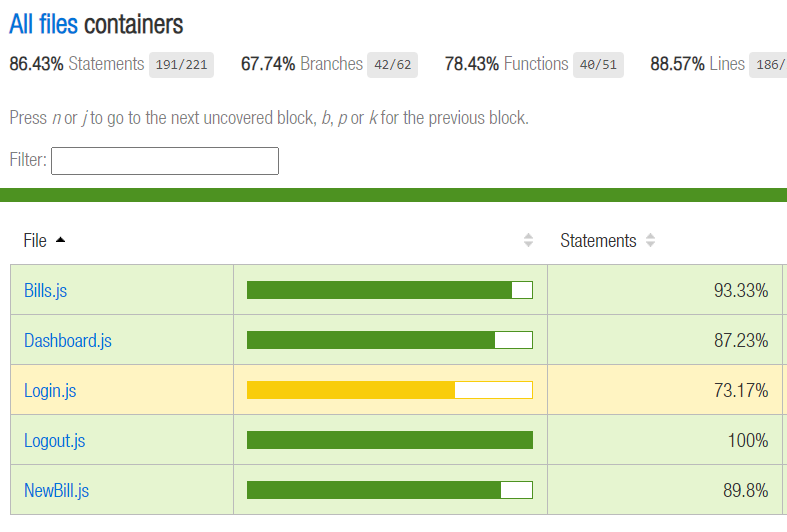
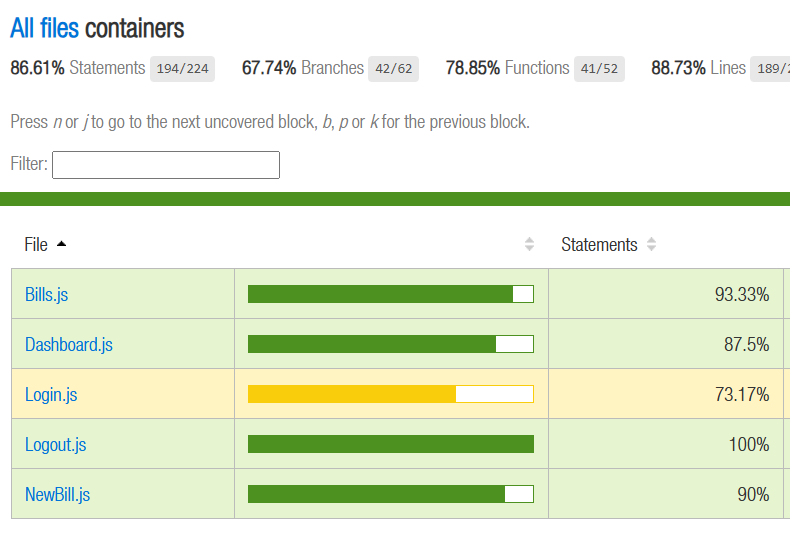
Ajouts et modifs diverses

diff --git a/src/containers/Dashboard.js b/src/containers/Dashboard.js
@@ -8,13 +8,12 @@ import Logout from "./Logout.js"
 // Ce fichier définit une classe JS qui est principalement responsable de la gestion des factures dans le tableau de bord administratif de l'application. Il permet à un administrateur de visualiser, filtrer, éditer et mettre à jour les factures soumises par les employés, et il inclut la gestion des événements liés à l'interface utilisateur pour accomplir ces tâches
 // Outil complet pour un administrateur, lui permettant de gérer les factures soumises par les employés et de prendre des décisions concernant leur validation ou leur rejet
 
-// Fonction qui filtre les factures en fonction de leur statut et exclut celles des utilisateurs de test.
+// Fonction qui filtre les factures en fonction de leur statut 
 export const filteredBills = (data, status) => {
   // Si les données sont définies et que la liste de factures n'est pas vide, filtre les factures.
   return (data && data.length) ?
     data.filter(bill => {
       let selectCondition
-
       // Vérifie si le code s'exécute dans un environnement de test (Jest est une bibliothèque de tests).
       if (typeof jest !== 'undefined') {
         // Si oui, filtre les factures dont le statut correspond au statut demandé.
@@ -32,7 +31,6 @@ export const filteredBills = (data, status) => {
           (bill.status === status) &&
           ![...USERS_TEST, userEmail].includes(bill.email)
       }
-
       // Retourne la condition pour filtrer la facture.
       return selectCondition
     }) : []
@@ -115,11 +113,12 @@ export default class {
 
   // Méthode pour gérer l'édition d'une facture lorsqu'un administrateur clique dessus
   handleEditTicket(e, bill, bills) {
+    e.preventDefault();
+    e.stopPropagation();
     // Si l'objet "counters" n'est pas encore défini, on le crée pour stocker un compteur pour chaque facture.
     if (this.counters === undefined) {
       this.counters = {}; // Crée un objet pour stocker les compteurs spécifiques à chaque facture.
     }
-    
     // Si le compteur pour la facture sélectionnée n'est pas encore initialisé, on le met à 0.
     if (this.counters[bill.id] === undefined) {
       this.counters[bill.id] = 0; // Initialise le compteur spécifique à la facture sélectionnée.
@@ -127,44 +126,36 @@ export default class {
     
     // Si le compteur pour cette facture est un multiple de 2 (premier clic ou après chaque deuxième clic).
     if (this.counters[bill.id] % 2 === 0) {
-        // Pour chaque facture, on remet l'arrière-plan à la couleur bleue pour désélectionner visuellement.
+        // Permet de "désélectionner" visuellement toutes les factures avant de se concentrer sur celle que l'utilisateur souhaite éditer et garantit qu'il n'y a pas de conflit visuel si plusieurs factures ont été sélectionnées précédemment. Le fond bleu indique que ces factures ne sont plus en cours d'édition => réinitialisation globale
         bills.forEach(b => {
             $(`#open-bill${b.id}`).css({ background: '#0D5AE5' });
         });
 
-        // Pour la facture sélectionnée, on change la couleur de fond pour indiquer qu'elle est en cours d'édition.
+        // Mise en évidence de la facture sélectionnée par l'utilisateur: on change la couleur de fond (noir) pour indiquer qu'elle est en cours d'édition. Cela assure que seule la facture sélectionnée est visuellement différenciée des autres
         $(`#open-bill${bill.id}`).css({ background: '#2A2B35' });
-        
         // On affiche le formulaire de détails de la facture dans la partie droite du tableau de bord.
         $('.dashboard-right-container div').html(DashboardFormUI(bill));
-        
         // On ajuste la hauteur de la barre de navigation verticale pour correspondre à l'affichage de la facture.
         $('.vertical-navbar').css({ height: '150vh' });
-        
         // On incrémente le compteur spécifique à cette facture.
         this.counters[bill.id]++;
     } else {
         // Si le compteur n'est pas un multiple de 2 (deuxième clic), on réinitialise l'arrière-plan à la couleur bleue.
         $(`#open-bill${bill.id}`).css({ background: '#0D5AE5' });
-        
         // On affiche une grande icône à la place du formulaire, indiquant qu'aucune facture n'est en cours d'édition.
         $('.dashboard-right-container div').html(`
             <div id="big-billed-icon" data-testid="big-billed-icon"> ${BigBilledIcon} </div>
         `);
-        
         // On ajuste la hauteur de la barre de navigation verticale à 120vh pour correspondre à l'affichage par défaut.
         $('.vertical-navbar').css({ height: '120vh' });
-        
         // On incrémente à nouveau le compteur pour cette facture.
         this.counters[bill.id]++;
     }
 
     // Attache un événement "click" à l'icône pour afficher la facture en grand format (en modal).
     $('#icon-eye-d').click(this.handleClickIconEye);
-    
     // Attache un événement "click" au bouton d'acceptation pour accepter la facture sélectionnée.
     $('#btn-accept-bill').click((e) => this.handleAcceptSubmit(e, bill));
-    
     // Attache un événement "click" au bouton de refus pour refuser la facture sélectionnée.
     $('#btn-refuse-bill').click((e) => this.handleRefuseSubmit(e, bill));
   }
@@ -208,27 +199,28 @@ export default class {
     if (this.counters[index] === undefined) {
       this.counters[index] = 0; // Initialise le compteur de la liste actuelle.
     }
-    // Filtrer les factures par statut avant de les afficher
+    // Filtrer les factures par statut avant de les afficher donc n'affiche que les factures pertinentes pour chaque statut
     const filteredBillsList = filteredBills(bills, getStatus(index));
-    // Si c'est un clic pair, affiche les factures pour le statut spécifié.
+    // Si c'est un clic pair, affiche les factures pour le statut spécifique
     if (this.counters[index] % 2 === 0) {
       $(`#arrow-icon${index}`).css({ transform: 'rotate(0deg)' });
-      $(`#status-bills-container${index}`).html(cards(filteredBillsList)); // Affiche les cartes des factures filtrées.
+      $(`#status-bills-container${index}`).html(cards(filteredBillsList)); // Affiche les cartes des factures filtrées
       this.counters[index]++;
     } else {
-      // Sinon, cache les factures pour ce statut.
+      // Sinon, cache les factures pour ce statut
       $(`#arrow-icon${index}`).css({ transform: 'rotate(90deg)' });
       $(`#status-bills-container${index}`).html("");
       this.counters[index]++;
     }
-    // Pour chaque facture filtrée, on s'assure de nettoyer et de réassigner les événements de clic correctement.
+    // Pour chaque facture filtrée, on s'assure de nettoyer et de réassigner les événements de clic correctement
     filteredBillsList.forEach(bill => {
+      // Réaffecte les événements click uniquement aux factures filtrées. Utilise .off('click') pour s'assurer qu'aucun événement de clic précédemment défini n'interfère, puis ajoute .on('click') pour réassigner correctement l'événement au clic sur une facture spécifique
       $(`#open-bill${bill.id}`).off('click').on('click', (e) => {
-        e.stopPropagation(); // Empêche la propagation de l'événement de clic à d'autres éléments.
-        this.handleEditTicket(e, bill, filteredBillsList); // Passe seulement les factures filtrées ici.
+        e.stopPropagation(); // Empêche la propagation de l'événement de clic à d'autres éléments
+        this.handleEditTicket(e, bill, filteredBillsList); // Passe seulement les factures filtrées ici
       });
     });
-    return filteredBillsList; // Retourne la liste des factures filtrées, utile pour les tests.
+    return filteredBillsList; // Retourne la liste filtrée des factures qui correspond au statut actuel
 }
 
   // Méthode pour récupérer toutes les factures de tous les utilisateurs depuis le store.

diff --git a/src/containers/NewBill.js b/src/containers/NewBill.js
@@ -1,6 +1,12 @@
 import { ROUTES_PATH } from '../constants/routes.js'; // Import des chemins de navigation (par exemple pour rediriger l'utilisateur après soumission)
 import Logout from "./Logout.js"; // Import de la classe Logout pour gérer la déconnexion utilisateur
 
+// Export de validateFileExtension pour permettre son utilisation dans les tests unitaires - Elle valide les extensions de fichiers en vérifiant si elles correspondent aux extensions autorisées (.jpg, .jpeg, .png)
+export function validateFileExtension(fileName) {
+  const allowedExtensions = /(\.jpg|\.jpeg|\.png)$/i;
+  return allowedExtensions.test(fileName);
+}
+
 export default class NewBill { // Définition de la classe NewBill qui gère la création d'une nouvelle facture
   constructor({ document, onNavigate, store, localStorage }) { // Constructeur de la classe, initialisant les paramètres nécessaires
     this.document = document; // Référence à l'objet document pour manipuler le DOM
@@ -17,44 +23,47 @@ export default class NewBill { // Définition de la classe NewBill qui gère la 
     new Logout({ document, localStorage, onNavigate }); // Instanciation de la classe Logout pour gérer la déconnexion
   }
 
-  handleChangeFile = async (e) => { // Méthode asynchrone pour gérer le changement de fichier
-    e.preventDefault(); // Empêche le comportement par défaut du navigateur lors du changement de fichier
-    const file = this.document.querySelector(`input[data-testid="file"]`).files[0]; // Récupération du premier fichier sélectionné dans l'input
-    const fileName = file.name; // Récupération du nom du fichier
-    const formData = new FormData(); // Création d'un objet FormData pour envoyer le fichier avec d'autres données
-    const email = JSON.parse(localStorage.getItem("user")).email; // Récupération de l'email de l'utilisateur à partir du localStorage
-    const allowedExtensions = /(\.jpg|\.jpeg|\.png)$/i; // Définition des extensions de fichiers autorisées (images)
-    // /.../ entourent l'expression régulière ; Le backslash \. pour signifier "un point littéral"; jpg|jpeg|png pour les extensions autorisées avec  l'opérateur "OU" => | ; $ signifie "fin de la chaîne" ; i pour signifier que la recherche est insensible à la casse Maj ou min
-    if (!allowedExtensions.test(fileName)) { // Vérification que l'extension du fichier est valide
-      alert('Les fichiers .jpg, .jpeg et .png sont les seuls autorisés'); // Affichage d'une alerte si le fichier a une extension non autorisée
-      e.target.value = ''; // Réinitialisation de l'input fichier
-      return; // Sortie de la fonction si l'extension n'est pas valide
-    }
-    formData.append('file', file); // Ajout du fichier à l'objet FormData
-    formData.append('email', email); // Ajout de l'email de l'utilisateur à l'objet FormData
 
-    try {
-      const response = await this.store.bills().create({ // Envoi du fichier au backend via la méthode create du store
-        data: formData, // Envoi de formData contenant le fichier et l'email
-        headers: {
-          noContentType: true // Spécifie de ne pas ajouter de type de contenu, FormData le gère automatiquement
-        }
+// Méthode asynchrone pour gérer le changement de fichier
+handleChangeFile = async (e) => { 
+  e.preventDefault(); // Empêche le comportement par défaut lors de la sélection d'un fichier
+  const file = this.document.querySelector(`input[data-testid="file"]`).files[0]; // Récupère le premier fichier sélectionné
+  const fileName = file.name; // Récupère le nom du fichier sélectionné
+
+  // Vérifie si l'extension du fichier est valide en appelant la fonction validateFileExtension
+  if (!validateFileExtension(fileName)) { 
+      alert('Les fichiers .jpg, .jpeg et .png sont les seuls autorisés'); // Alerte si l'extension est non valide
+      e.target.value = ''; // Réinitialise l'input pour forcer la sélection d'un fichier valide
+      return; // Stoppe l'exécution si l'extension est invalide
+  }
+
+  const formData = new FormData(); // Crée un objet FormData pour envoyer le fichier et les données
+  const email = JSON.parse(localStorage.getItem("user")).email; // Récupère l'email de l'utilisateur depuis localStorage
+  formData.append('file', file); // Ajoute le fichier à formData
+  formData.append('email', email); // Ajoute l'email de l'utilisateur à formData
+
+  try {
+      // Envoie le fichier et les données via une requête API asynchrone
+      const response = await this.store.bills().create({ 
+          data: formData, // Envoie le FormData qui contient le fichier et l'email
+          headers: {
+              noContentType: true // Indique que FormData gère le Content-Type automatiquement
+          }
       });
 
-      this.billId = response.key; // Récupération de l'ID de la facture à partir de la réponse de l'API
-      this.fileName = response.fileName; // Récupération du nom du fichier à partir de la réponse
-      const cleanedFilePath = response.filePath ? response.filePath.replace(/\\/g, '/') : ''; // Nettoyage du chemin de fichier (remplacement des backslashes par des slashes)
-      // /\\/g = 1er arg => \\ échappement du backslash ; g signifie "global", ce qui indique que nous voulons remplacer tous les backslashes dans la chaîne, pas seulement le premier trouvé
-      // '/' (le second argument de replace) => C'est la chaîne (slash) par laquelle nous voulons remplacer les backslashes
+      this.billId = response.key; // Stocke l'ID de la facture renvoyé par le backend
+      this.fileName = response.fileName; // Stocke le nom du fichier renvoyé par le backend
+      const cleanedFilePath = response.filePath ? response.filePath.replace(/\\/g, '/') : ''; // Remplace les backslashes par des slashes et Nettoyage : /\\/g remplace tous les backslashes \\ par des slashes / dans le chemin de fichier
 
-      // Si le serveur renvoie une URL complète du fichier dans response.fileUrl, elle est utilisée telle quelle..
-      this.fileUrl = response.fileUrl || `http://yourserver.com/${cleanedFilePath}/${response.fileName}`; // ..Ou construction de l'URL du fichier
+      // Stocke l'URL du fichier (renvoyée par le serveur ou construite localement)
+      this.fileUrl = response.fileUrl || `http://yourserver.com/${cleanedFilePath}/${response.fileName}`; 
 
-    } catch (error) {
-      console.error('Erreur lors de la création de la facture avec le fichier:', error); // Affichage d'une erreur dans la console en cas d'échec
-      alert('Une erreur est survenue lors de l\'envoi du fichier. Veuillez réessayer.'); // Affichage d'une alerte si l'upload échoue
-    }
-  };
+  } catch (error) {
+      console.error('Erreur lors de la création de la facture avec le fichier:', error); // Affiche une erreur en cas d'échec
+      alert('Une erreur est survenue lors de l\'envoi du fichier. Veuillez réessayer.'); // Affiche une alerte si l'upload échoue
+  }
+};
+
 
   handleSubmit = async (e) => { // Méthode asynchrone pour gérer la soumission du formulaire
     e.preventDefault(); // Empêche le comportement par défaut lors de la soumission du formulaire

diff --git a/src/__tests__/NewBill.js b/src/__tests__/NewBill.js
@@ -6,10 +6,41 @@
 import { screen, fireEvent } from "@testing-library/dom"; // Outils pour simuler les interactions DOM
 import NewBillUI from "../views/NewBillUI.js"; // Interface utilisateur de la page NewBill
 import NewBill from "../containers/NewBill.js"; // Logique métier de NewBill
+import { validateFileExtension } from '../containers/NewBill.js'; // Import de validateFileExtension en tant que fonction
 import { ROUTES_PATH } from '../constants/routes.js'; // Import des chemins de navigation
 import mockStore from "../__mocks__/store.js"; // Mock de la gestion du store pour simuler les appels API
 
 jest.mock("../app/store", () => mockStore);  // Moquer le store avec mockStore
+
+// TESTS UNITAIRES
+// Définition du bloc principal de test : contexte dans lequel l'utilisateur télécharge un fichier
+describe("Given the user uploads a file", () => {
+  // Sous-bloc pour tester le cas où le fichier a une extension valide
+  describe("When the file has a valid extension", () => {
+    // Test unitaire vérifiant que la fonction retourne true pour des extensions valides
+    test("Then validateFileExtension should return true", () => { 
+      // Vérifie que validateFileExtension retourne true pour un fichier avec l'extension .jpg
+      expect(validateFileExtension("photo.jpg")).toBe(true);
+      // Vérifie que validateFileExtension retourne true pour un fichier avec l'extension .jpeg
+      expect(validateFileExtension("photo.jpeg")).toBe(true);
+      // Vérifie que validateFileExtension retourne true pour un fichier avec l'extension .png
+      expect(validateFileExtension("photo.png")).toBe(true);
+    });
+  });
+
+  // Sous-bloc pour tester le cas où le fichier a une extension invalide
+  describe("When the file has an invalid extension", () => {
+    // Test unitaire vérifiant que la fonction retourne false pour des extensions non autorisées
+    test("Then validateFileExtension should return false", () => {
+      // Vérifie que validateFileExtension retourne false pour un fichier avec l'extension .pdf
+      expect(validateFileExtension("document.pdf")).toBe(false);
+      // Vérifie que validateFileExtension retourne false pour un fichier avec l'extension .gif
+      expect(validateFileExtension("image.gif")).toBe(false);
+      // Vérifie que validateFileExtension retourne false pour un fichier avec l'extension .txt
+      expect(validateFileExtension("file.txt")).toBe(false);
+    });
+  });
+});
 
 // DÉBUT DU BLOC "DESCRIBE" POUR LA CONNEXION EMPLOYÉ (GIVEN)
 describe("Given I am connected as an employee", () => {
@@ -37,7 +68,7 @@ describe("Given I am connected as an employee", () => {
       const form = screen.getByTestId("form-new-bill"); // Récupère le formulaire via son data-testid
       expect(form).toBeTruthy(); // Vérifie que le formulaire est présent dans le DOM
     });
-    // TEST UNITAIRE : UPLOAD D'UN FICHIER VALIDE
+    // TEST D'INTEGRATION : UPLOAD D'UN FICHIER VALIDE
     describe("When I upload a valid file", () => {
       test("Then it should be processed", async () => {
         // Récupère l'input pour le fichier  
@@ -81,7 +112,7 @@ describe("Given I am connected as an employee", () => {
       });
     });
 
-    // TEST UNITAIRE : SOUMISSION SANS FICHIER
+    // TEST D'INTEGRATION : SOUMISSION SANS FICHIER
     describe("When I submit the form without a file", () => {
       test("Then an alert should be shown", () => {
         const form = screen.getByTestId("form-new-bill"); // Récupère le formulaire
@@ -91,7 +122,7 @@ describe("Given I am connected as an employee", () => {
       });
     });
 
-    // TEST UNITAIRE : UPLOAD D'UN FICHIER NON VALIDE
+    // TEST D'INTEGRATION : UPLOAD D'UN FICHIER NON VALIDE
     describe("When I upload an invalid file", () => {
       test("Then an alert should be shown", () => {
         const fileInput = screen.getByTestId("file"); // Récupère l'input du fichier

diff --git a/src/__tests__/Bills.js b/src/__tests__/Bills.js
@@ -60,17 +60,16 @@ test("Then bills should be ordered from latest to earliest", async () => {
   const antiChrono = (a, b) => (new Date(a) > new Date(b) ? -1 : 1);
 
   // `...dates` crée une copie du tableau `dates` pour ne pas modifier l'original, puis on applique `sort(antiChrono)` pour trier effectivement les dates à l'aide d'antiChrono.
-  const datesSorted = [...dates].sort(antiChrono);
+  const sortedDates = [...dates].sort(antiChrono);
   
   // // Le test vérifie lui-même que le tableau `dates` est bien trié dans l'ordre décroissant en le comparant au tableau trié `datesSorted`.
   // Si `dates` et `datesSorted` sont égaux, cela signifie que les dates étaient déjà dans le bon ordre (anti-chronologique).
-  expect(dates).toEqual(datesSorted); 
+  expect(dates).toEqual(sortedDates); 
 });
 
     
-    ///// NOUVEAU TEST D'INTEGRATION GET : se concentre sur la récupération des factures pour un utilisateur employé depuis l'API simulée (mockStore). Cela permet de vérifier que les factures sont correctement récupérées et affichées pour un utilisateur employé connecté /////// 
-
-    test("fetches bills from mock API GET", async () => {
+    ///// TEST D'INTEGRATION GET : se concentre sur la récupération des factures pour un utilisateur employé depuis l'API simulée (mockStore). Cela permet de vérifier que les factures sont correctement récupérées et affichées pour un utilisateur employé connecté /////// 
+    test("Then fetches bills from mock API GET", async () => {
       // Simule la connexion d'un utilisateur employé
       localStorage.setItem("user", JSON.stringify({ type: "Employee", email: "employee@test.tld" })); 
       // Crée un conteneur div pour l'application et l'ajoute au DOM
